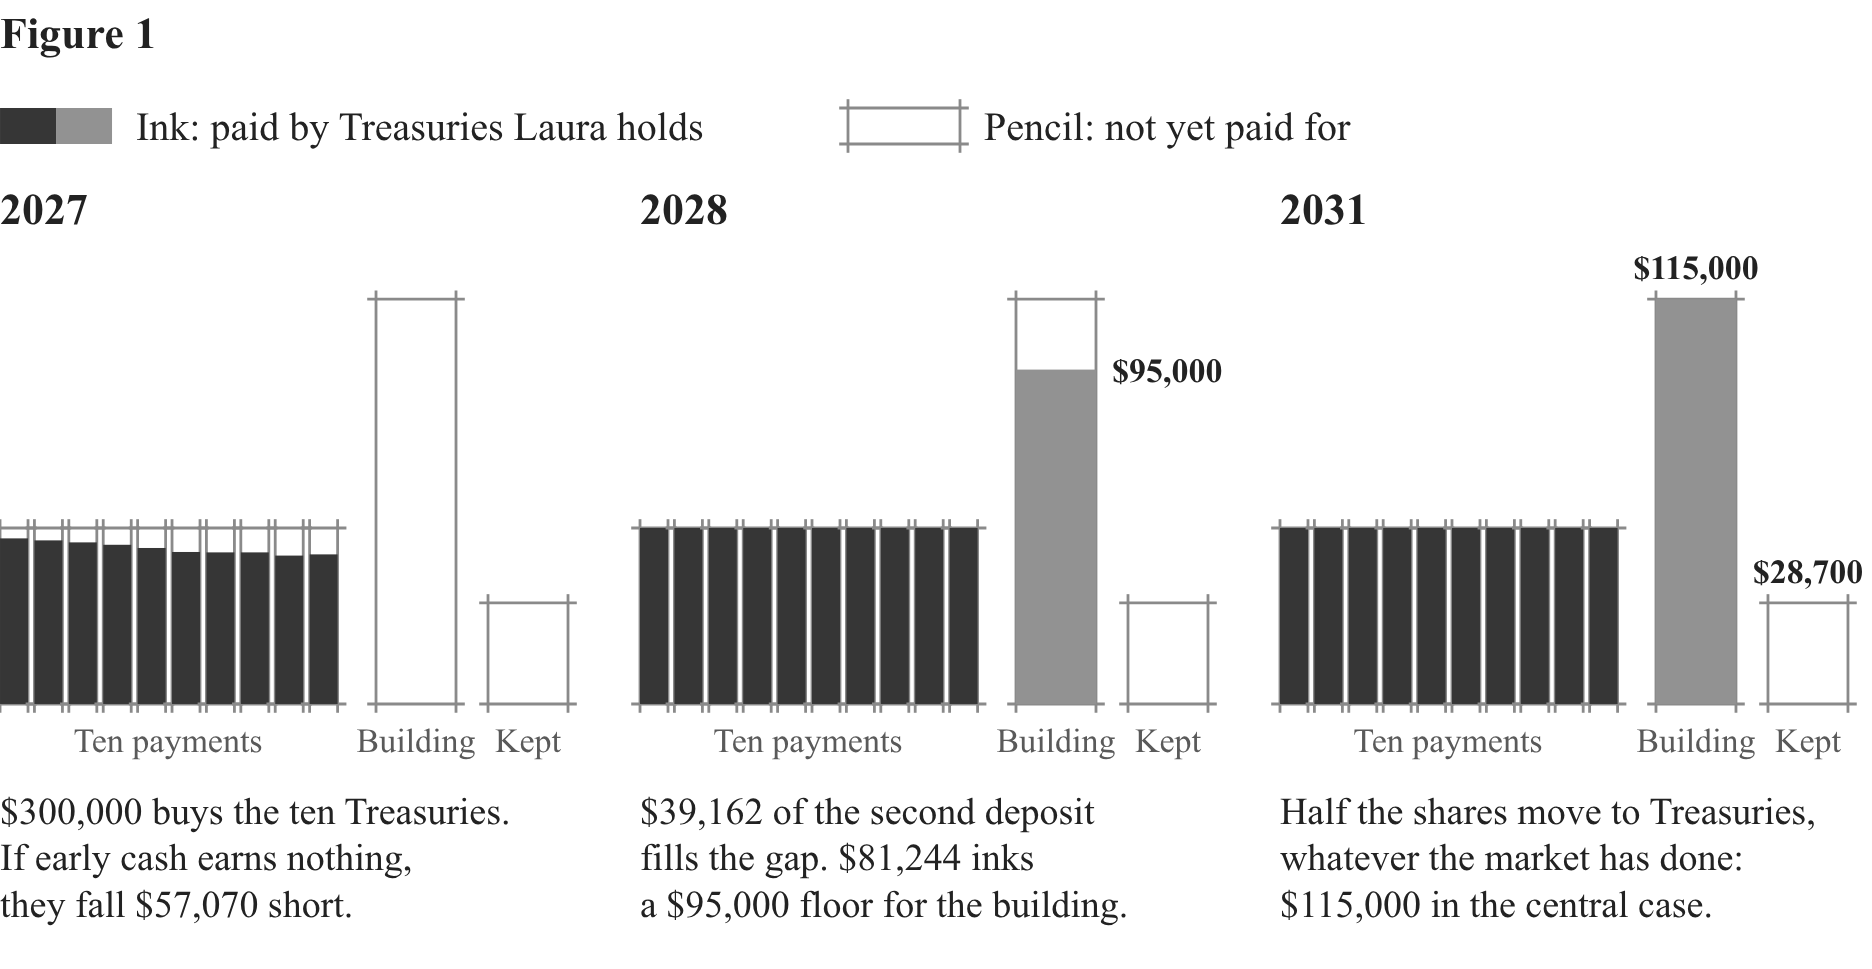
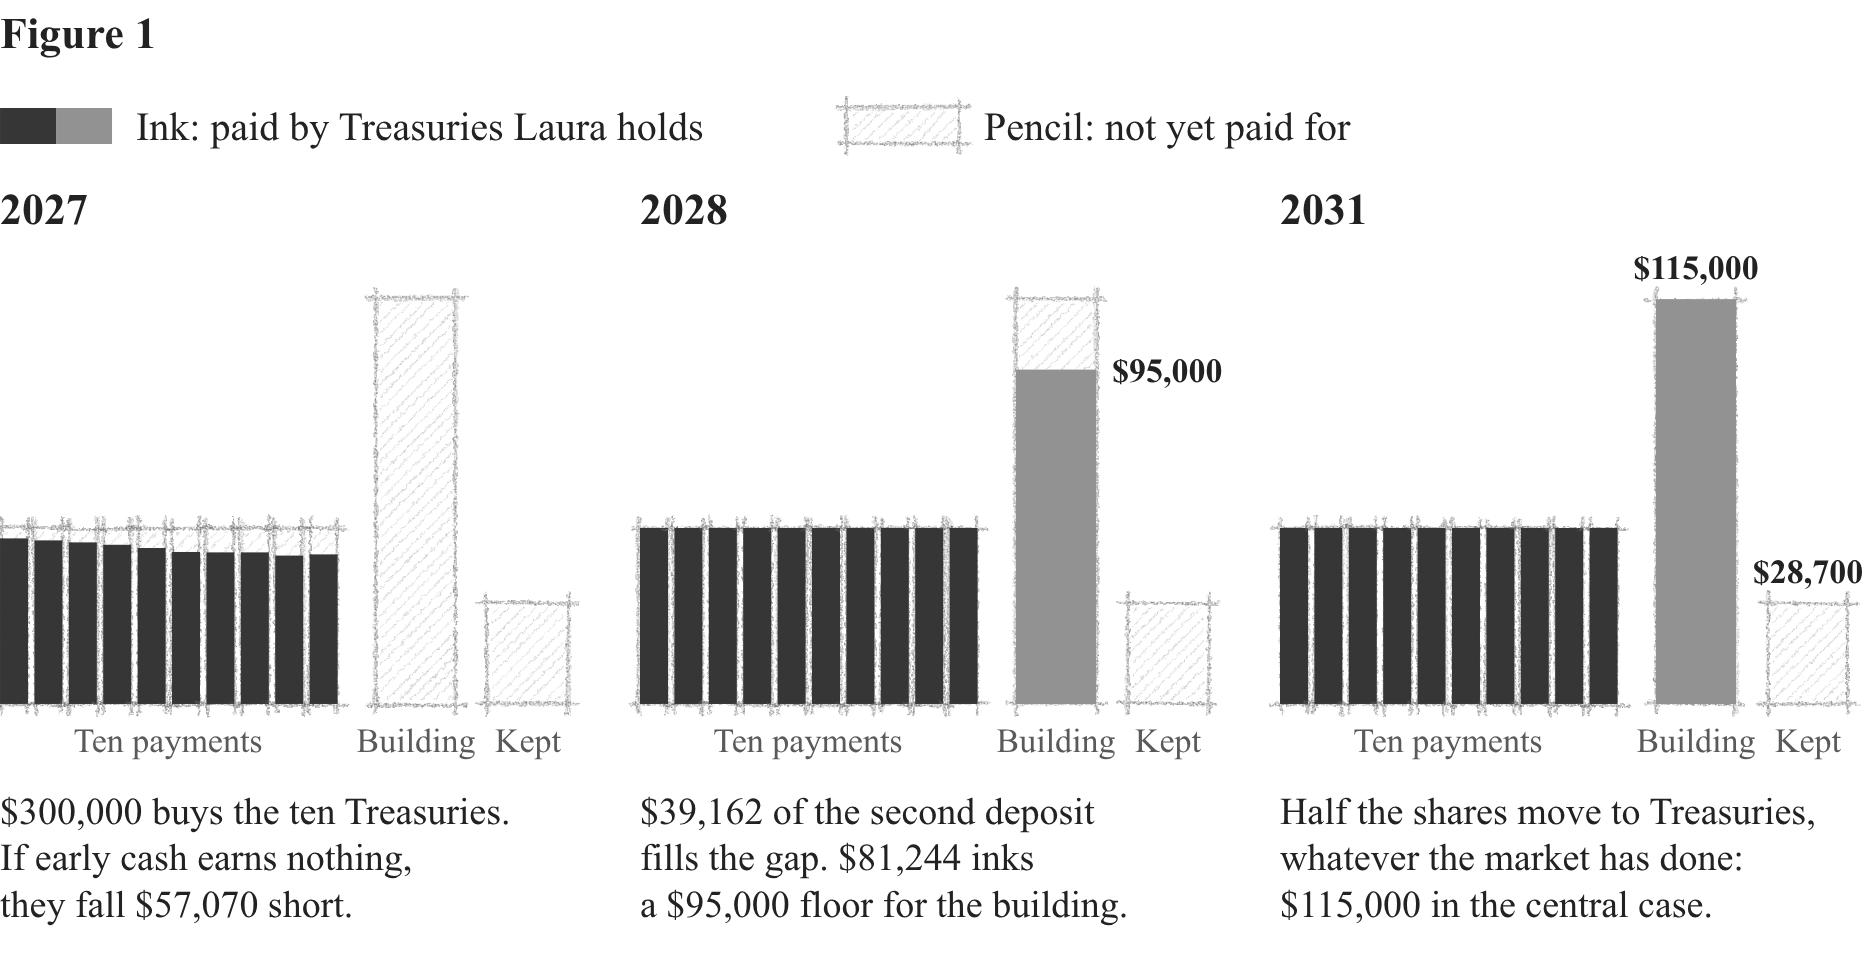
Figure 1: graphite texture for the pencil parts
Claude-Session: https://claude.ai/code/session_01VfCtEvW51v5yKAUtcNmmV9

diff --git a/keel/final_report/charts/flowchart/ink_stages.py b/keel/final_report/charts/flowchart/ink_stages.py
@@ -5,10 +5,31 @@ NET = [47101, 46497, 45911, 45204, 44268, 43195, 43061, 43043, 42180, 42469]
 PEN = "#8A8A8A"
 U = 44 / 50000          # pt per dollar
 BASE = 176
-def pencil(x, y, w, h):
-    e = 2.2  # construction-line overshoot at each corner
-    return "".join(ln(a, b, c, d, PEN, 0.7) for a, b, c, d in [
-        (x - e, y, x + w + e, y), (x - e, y + h, x + w + e, y + h), (x, y - e, x, y + h + e), (x + w, y - e, x + w, y + h + e)])
+import random
+random.seed(7)
+DEFS = ('<defs><filter id="graphite" x="-5%" y="-5%" width="110%" height="110%">'
+        '<feTurbulence type="fractalNoise" baseFrequency="0.9" numOctaves="2" seed="3" result="n"/>'
+        '<feDisplacementMap in="SourceGraphic" in2="n" scale="1.3" xChannelSelector="R" yChannelSelector="G" result="d"/>'
+        '<feTurbulence type="fractalNoise" baseFrequency="2.2" numOctaves="1" seed="9" result="g"/>'
+        '<feColorMatrix in="g" type="matrix" values="0 0 0 0 0  0 0 0 0 0  0 0 0 0 0  0 0 0 -1.6 1.25" result="ga"/>'
+        '<feComposite in="d" in2="ga" operator="in"/></filter></defs>')
+def _j(v, a=0.5): return v + random.uniform(-a, a)
+def pencil(x, y, w, h, hatch=True):
+    e = 2.4
+    o = []
+    for k in range(2):  # two light passes, as a hand draws over a line
+        for a, b, c, d in [(x - e, y, x + w + e, y), (x - e, y + h, x + w + e, y + h), (x, y - e, x, y + h + e), (x + w, y - e, x + w, y + h + e)]:
+            o.append(f'<line x1="{_j(a):.2f}" y1="{_j(b):.2f}" x2="{_j(c):.2f}" y2="{_j(d):.2f}" stroke="#5A5A5A" stroke-width="{0.55 if k else 0.75}" stroke-linecap="round" opacity="{0.55 if k else 0.85}"/>')
+    if hatch:  # loose diagonal shading inside the box
+        cid = f"c{random.randint(0, 10**9)}"
+        o.append(f'<clipPath id="{cid}"><rect x="{x+1}" y="{y+1}" width="{w-2}" height="{h-2}"/></clipPath><g clip-path="url(#{cid})">')
+        sp = 3.2
+        i = -h
+        while i < w:
+            o.append(f'<line x1="{x+i+_j(0,0.6):.2f}" y1="{y+h:.2f}" x2="{x+i+h+_j(0,0.6):.2f}" y2="{y:.2f}" stroke="#8C8C8C" stroke-width="0.4" opacity="{random.uniform(0.45,0.75):.2f}"/>')
+            i += sp
+        o.append("</g>")
+    return '<g filter="url(#graphite)">' + "".join(o) + "</g>"
 def ink(x, v, w, c, v0=0):
     return f'<rect x="{x:.1f}" y="{BASE - v*U:.1f}" width="{w}" height="{(v-v0)*U:.1f}" fill="{c}"/>'
 def panel(x0, year, stage, cap):
@@ -44,4 +65,4 @@ for x0, yr, st, cap in P:
         b.append(t(xb + 10, BASE - 115000 * U - 5, "$115,000", 8.5, "bold", anc="middle"))
         b.append(t(xk + 10, BASE - 28700 * U - 5, "$28,700", 8.5, "bold", anc="middle"))
 H = BASE + 66
-open("ink_stages.svg", "w").write(f'<svg xmlns="http://www.w3.org/2000/svg" width="{W}pt" height="{H}pt" viewBox="0 0 {W} {H}"><rect width="{W}" height="{H}" fill="#fff"/>' + "".join(b) + "</svg>")
+open("ink_stages.svg", "w").write(f'<svg xmlns="http://www.w3.org/2000/svg" width="{W}pt" height="{H}pt" viewBox="0 0 {W} {H}"><rect width="{W}" height="{H}" fill="#fff"/>' + DEFS + "".join(b) + "</svg>")
